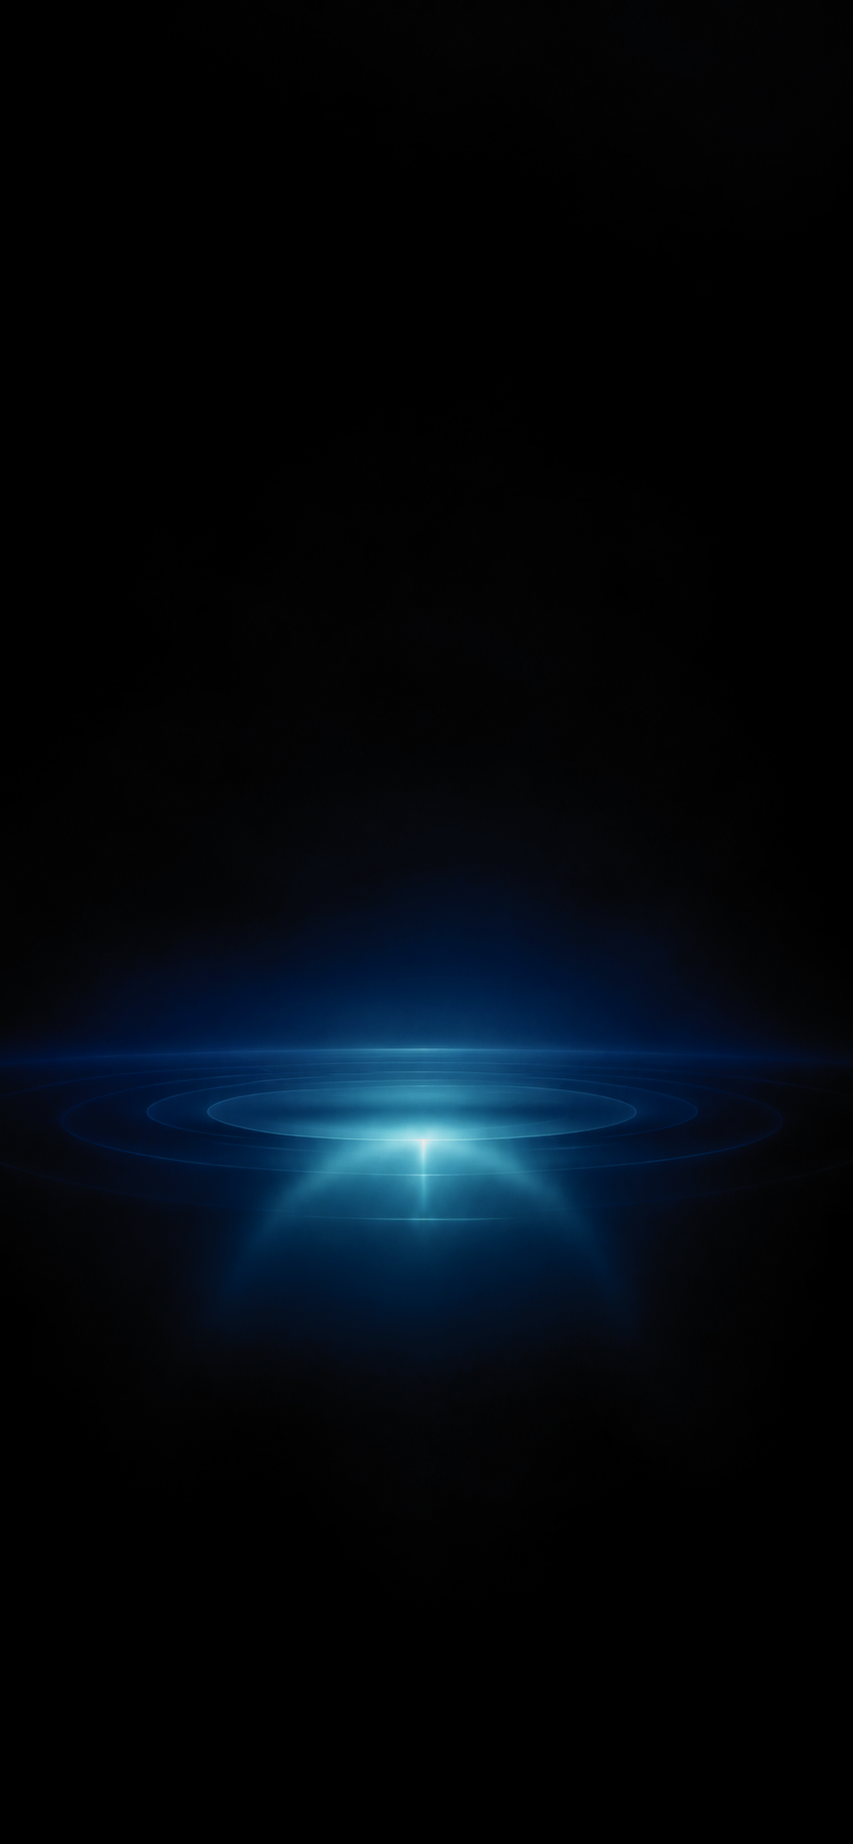
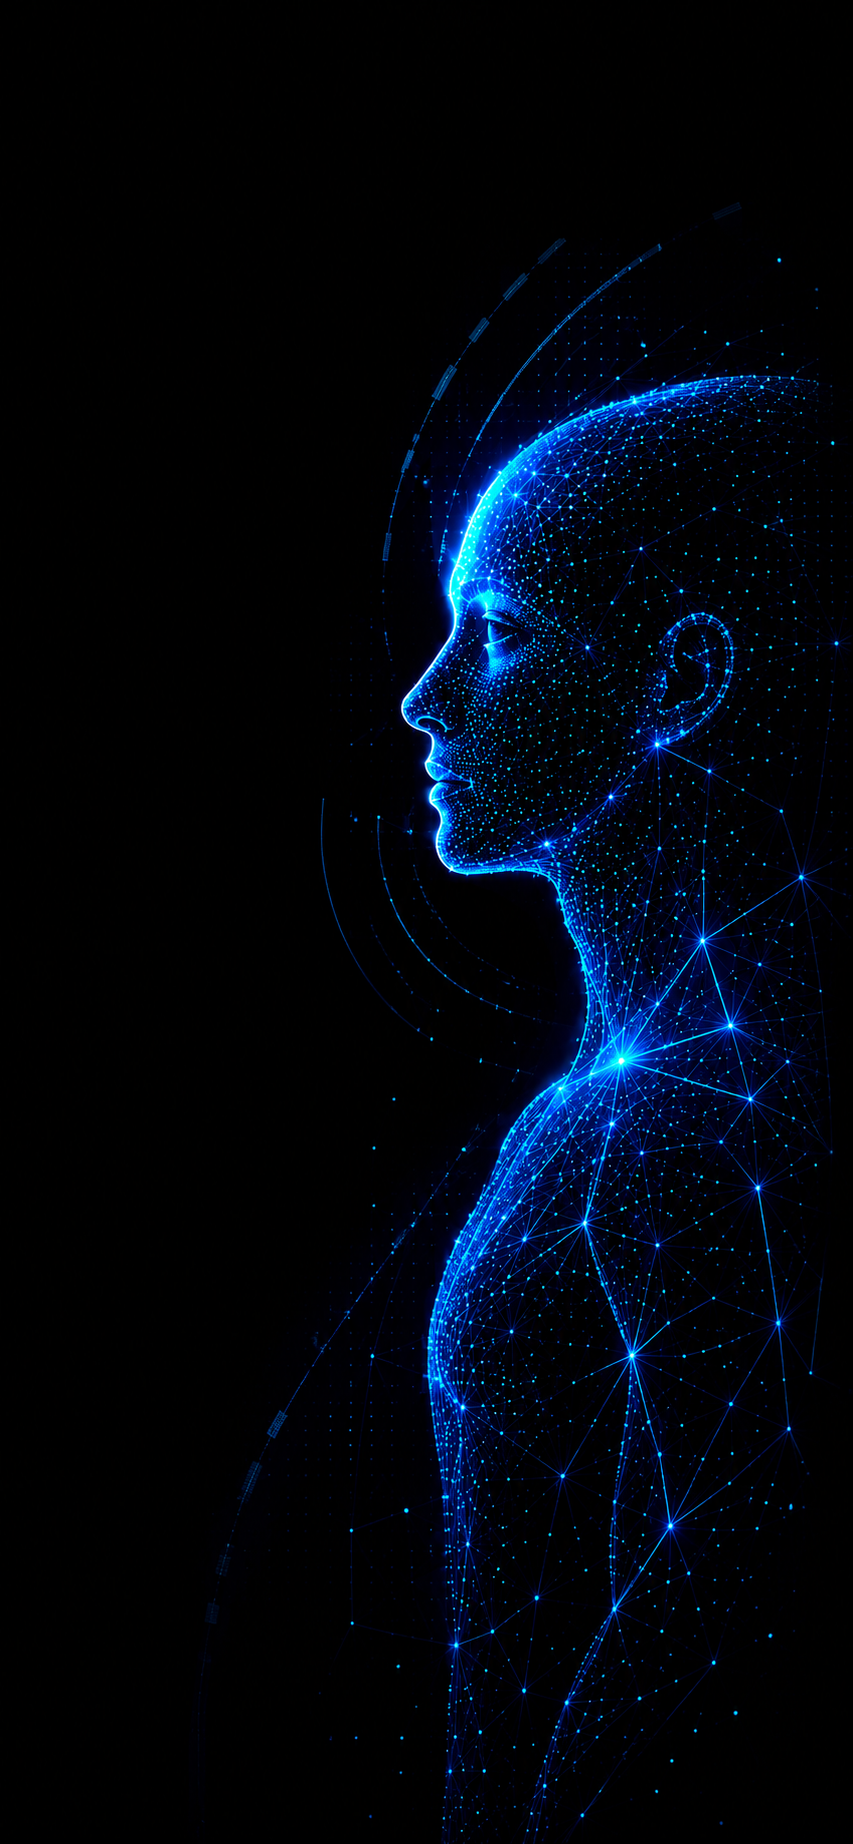
Fix camera display — video element always mounted

diff --git a/src/components/BodyCaptureFlow.tsx b/src/components/BodyCaptureFlow.tsx
@@ -46,8 +46,9 @@ export default function BodyCaptureFlow({ onComplete, onCancel }: BodyCaptureFlo
   const [progress, setProgress] = useState(0)
   const [shots, setShots] = useState<CapturedShot[]>([])
   const [errorMsg, setErrorMsg] = useState('')
-  const [armDelay, setArmDelay] = useState(3)
+  const [armDelay, setArmDelay] = useState(8)
   const armedRef = useRef(false)
+  const lastGuidanceCheckRef = useRef(0)
   const [debugInfo, setDebugInfo] = useState('init')
 
   const currentPose = POSES[poseIndex]
@@ -146,8 +147,10 @@ export default function BodyCaptureFlow({ onComplete, onCancel }: BodyCaptureFlo
       const canvas = canvasRef.current
       if (canvas) drawOverlay(canvas, result, currentProgress)
 
-      // ── Guidage vocal — uniquement une fois le délai d'armement passé ──────
-      if (armedRef.current && result.detected) {
+      // ── Guidage vocal — évalué au maximum 1x/seconde, pour éviter les coupures ──
+      const nowMs = performance.now()
+      if (armedRef.current && result.detected && nowMs - lastGuidanceCheckRef.current > 1200) {
+        lastGuidanceCheckRef.current = nowMs
         if (result.distanceHint === 'too_far') {
           speak(t('visual_voice_moveCloser'), { lang: speechLang })
         } else if (result.distanceHint === 'too_close') {

diff --git a/src/lib/speech.ts b/src/lib/speech.ts
@@ -10,10 +10,13 @@ export function speak(text: string, opts?: { force?: boolean; lang?: string }) {
   const now = Date.now()
   const isSameMessage = text === lastSpokenText
   const tooSoon = now - lastSpokenAt < MIN_INTERVAL_MS
+  const stillSpeaking = window.speechSynthesis.speaking
 
+  // Ne jamais interrompre une phrase en cours, sauf si forcé (ex. "photo prise")
+  if (!opts?.force && stillSpeaking) return
   if (!opts?.force && isSameMessage && tooSoon) return
 
-  window.speechSynthesis.cancel() // interrompt toute phrase en cours pour éviter l'empilement
+  window.speechSynthesis.cancel()
   const utterance = new SpeechSynthesisUtterance(text)
   utterance.lang = opts?.lang ?? 'fr-FR'
   utterance.rate = 1.0